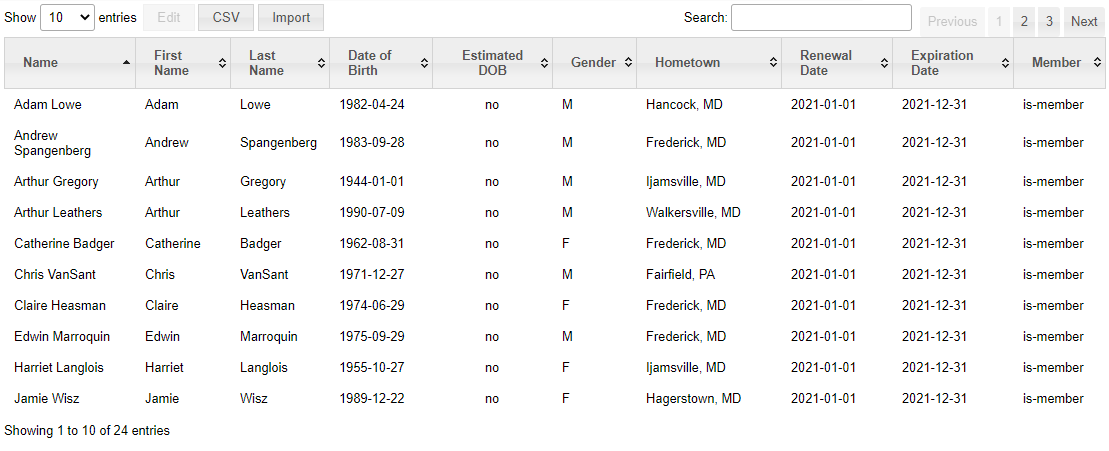
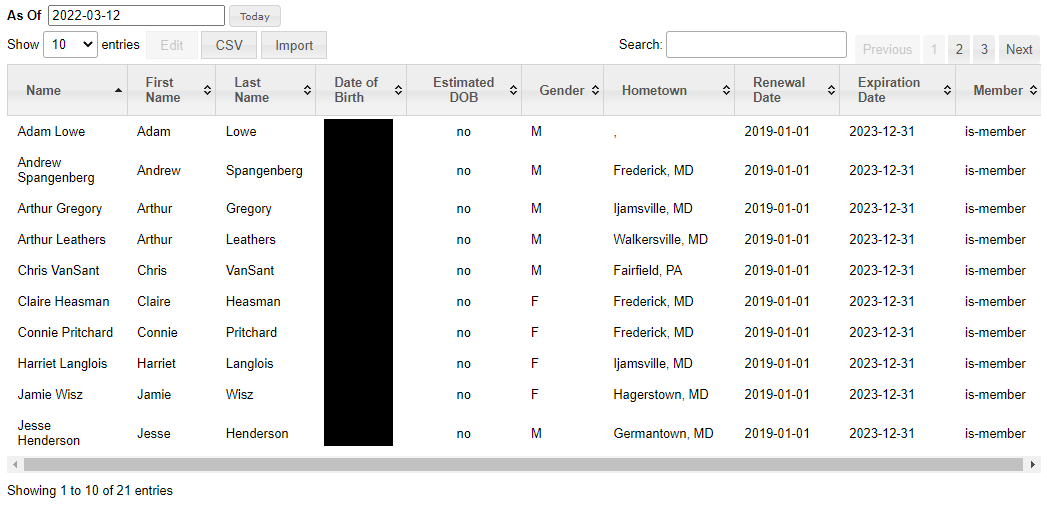
docs: members view **As Of** filter (#549)

diff --git a/rrwebapp/version.py b/rrwebapp/version.py
@@ -1,5 +1,5 @@
 # this string is used for the version string in the documentation
-__version__ = '3.2.2'
+__version__ = '3.2.3.dev1'
 __docversion__ = __version__
 # uncomment for development
 # __docversion__ = 'latest'

diff --git a/docs/scoring-admin-reference.rst b/docs/scoring-admin-reference.rst
@@ -176,6 +176,11 @@ database.
 If a service is set up (e.g., RunSignUp club service), the :term:`members <member>` list can be downloaded directly from the service.
 Otherwise, a file needs to be imported into the system. The **Import** button is used to import the :term:`members <member>`.
 
+The view has the following filters:
+
+    :As Of:
+        chooses the active date for which members are shown
+
 .. image:: images/members-view.*
     :align: center
 
